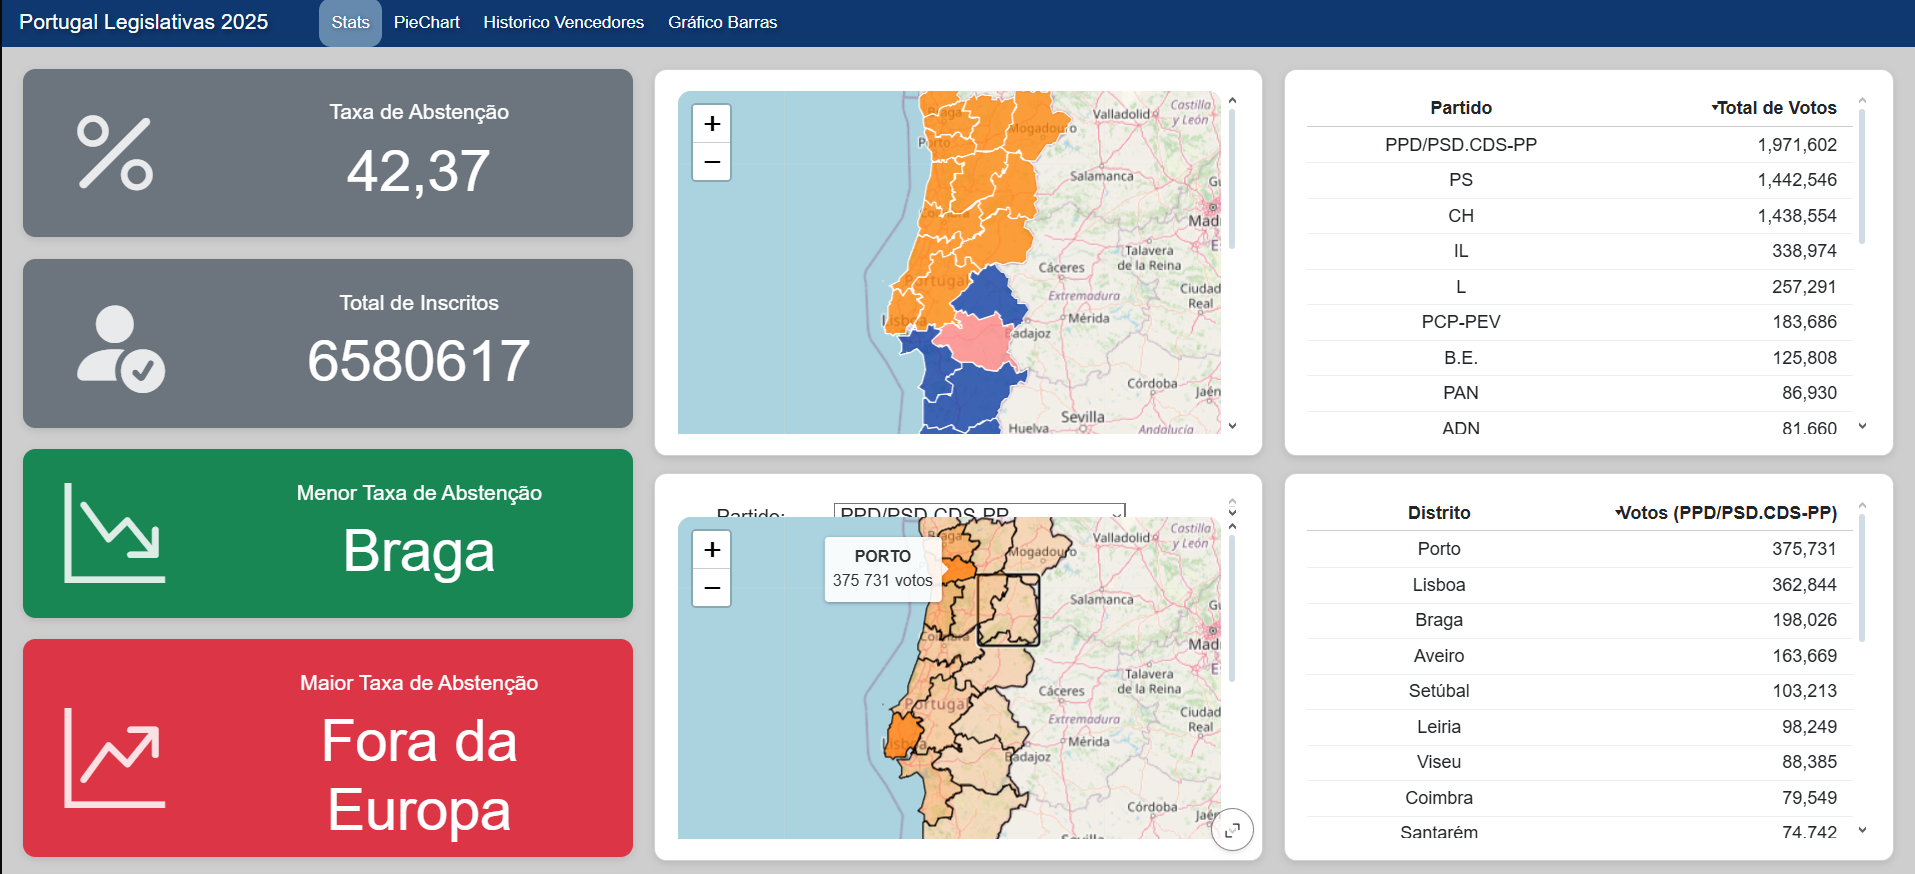
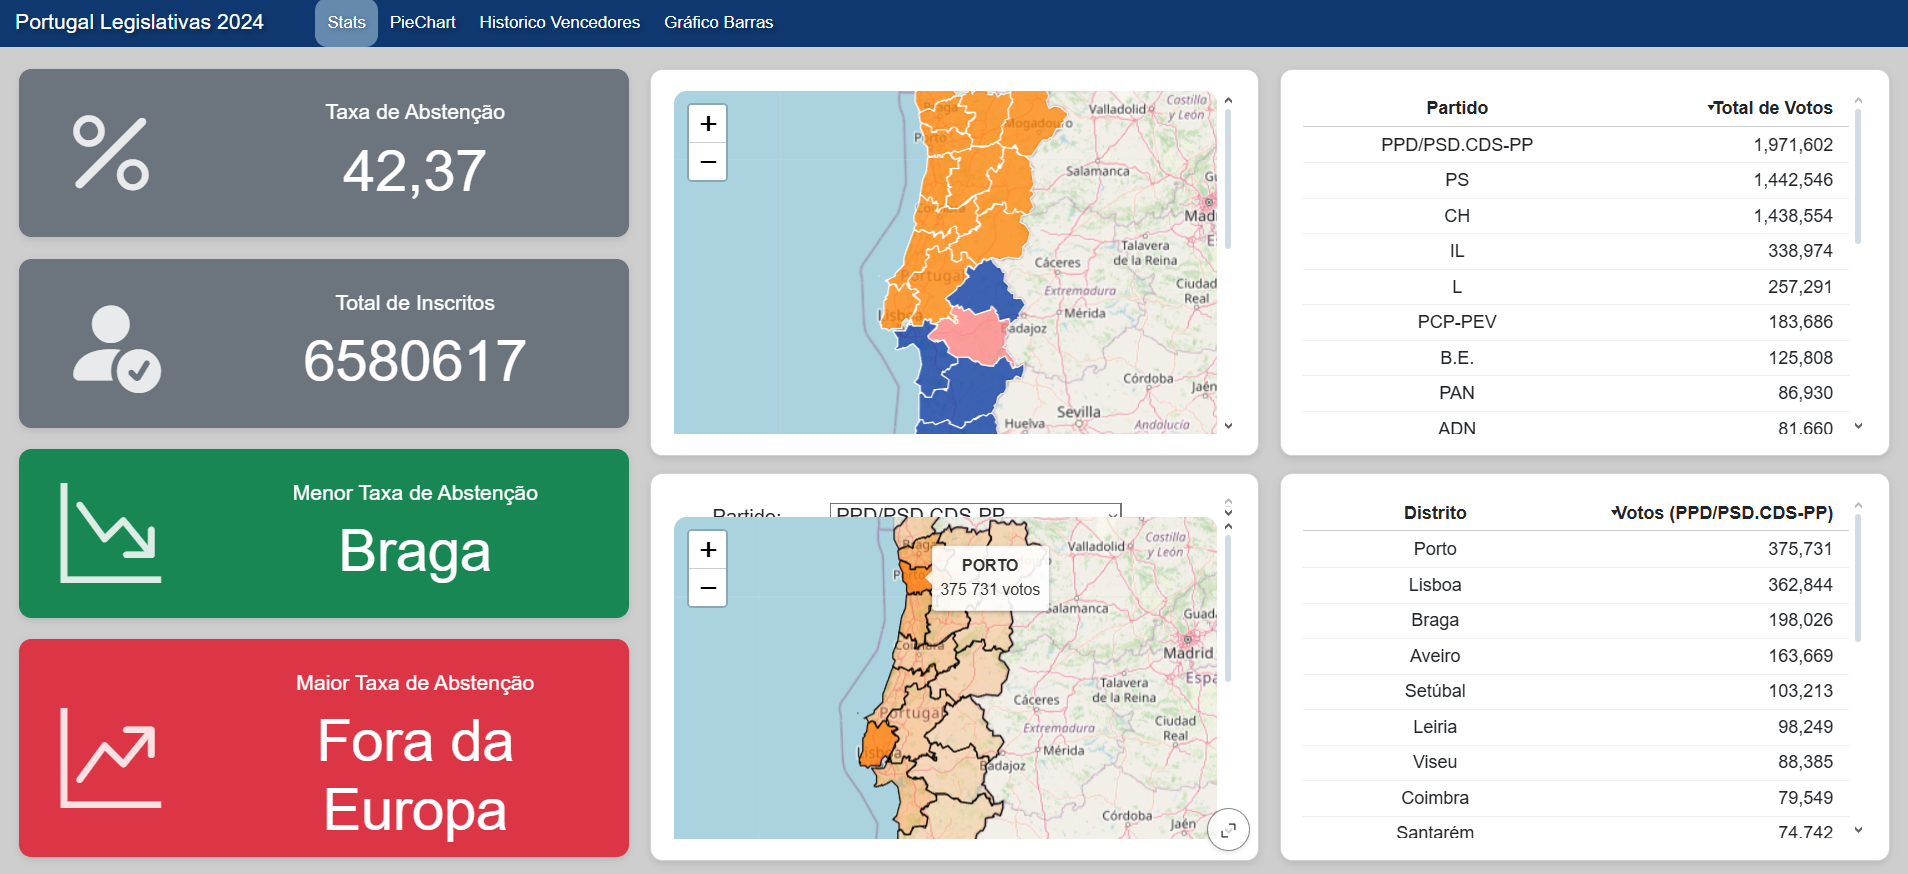
2025->2024

diff --git a/quarto.html b/quarto.html
@@ -7,7 +7,7 @@
 <meta name="viewport" content="width=device-width, initial-scale=1.0, user-scalable=yes">
 
 
-<title>Portugal Legislativas 2025</title>
+<title>Portugal Legislativas 2024</title>
 <style>
 code{white-space: pre-wrap;}
 span.smallcaps{font-variant: small-caps;}
@@ -106,7 +106,7 @@ pre > code.sourceCode > span > a:first-child::before { text-decoration: underlin
 
 
       <div class="navbar-title">
-        <div class="navbar-title-text"><a href="#">Portugal Legislativas 2025</a></div>
+        <div class="navbar-title-text"><a href="#">Portugal Legislativas 2024</a></div>
         
         
       </div>
@@ -208,16 +208,16 @@ grid-auto-rows: minmax(0, 1fr);">
 <div class="card cell html-fill-item html-fill-container bslib-card" data-bslib-card-init="" data-require-bs-caller="card()" data-full-screen="false">
 <div class="card-body html-fill-item html-fill-container">
 <div class="code-copy-outer-scaffold html-fill-item html-fill-container"><div class="sourceCode cell-code hidden html-fill-item html-fill-container" id="cb1" data-startfrom="148" data-source-offset="0"><pre class="sourceCode js code-with-copy"><code class="sourceCode javascript" style="counter-reset: source-line 147;"><span id="cb1-148"><a href="#cb1-148" aria-hidden="true" tabindex="-1"></a>{</span>
-<span id="cb1-149"><a href="#cb1-149" aria-hidden="true" tabindex="-1"></a>  <span class="co">// 1. Carregar Leaflet global</span></span>
+<span id="cb1-149"><a href="#cb1-149" aria-hidden="true" tabindex="-1"></a>  <span class="co">// Carregar Leaflet global</span></span>
 <span id="cb1-150"><a href="#cb1-150" aria-hidden="true" tabindex="-1"></a>  <span class="kw">const</span> leafletCSS <span class="op">=</span> <span class="fu">html</span><span class="vs">`&lt;link rel="stylesheet" href="https://unpkg.com/leaflet@1.9.4/dist/leaflet.css"&gt;`</span><span class="op">;</span></span>
 <span id="cb1-151"><a href="#cb1-151" aria-hidden="true" tabindex="-1"></a>  <span class="kw">const</span> leafletJS <span class="op">=</span> <span class="fu">html</span><span class="vs">`&lt;script src="https://unpkg.com/leaflet@1.9.4/dist/leaflet.js"&gt;&lt;/script&gt;`</span><span class="op">;</span></span>
 <span id="cb1-152"><a href="#cb1-152" aria-hidden="true" tabindex="-1"></a>  <span class="cf">await</span> <span class="bu">Promise</span><span class="op">.</span><span class="fu">all</span>([leafletCSS<span class="op">,</span> leafletJS])<span class="op">;</span></span>
 <span id="cb1-153"><a href="#cb1-153" aria-hidden="true" tabindex="-1"></a></span>
-<span id="cb1-154"><a href="#cb1-154" aria-hidden="true" tabindex="-1"></a>  <span class="co">// 2. Carregar dados</span></span>
+<span id="cb1-154"><a href="#cb1-154" aria-hidden="true" tabindex="-1"></a>  <span class="co">// Carregar dados</span></span>
 <span id="cb1-155"><a href="#cb1-155" aria-hidden="true" tabindex="-1"></a>  <span class="kw">const</span> dadosEleicoes <span class="op">=</span> <span class="cf">await</span> <span class="fu">FileAttachment</span>(<span class="st">"data/legislativas1.json"</span>)<span class="op">.</span><span class="fu">json</span>()<span class="op">;</span></span>
 <span id="cb1-156"><a href="#cb1-156" aria-hidden="true" tabindex="-1"></a>  <span class="kw">const</span> districts <span class="op">=</span> <span class="cf">await</span> <span class="fu">FileAttachment</span>(<span class="st">"data/ContinenteDistritos_geo.geojson"</span>)<span class="op">.</span><span class="fu">json</span>()<span class="op">;</span></span>
 <span id="cb1-157"><a href="#cb1-157" aria-hidden="true" tabindex="-1"></a></span>
-<span id="cb1-158"><a href="#cb1-158" aria-hidden="true" tabindex="-1"></a>  <span class="co">// 3. Funções auxiliares</span></span>
+<span id="cb1-158"><a href="#cb1-158" aria-hidden="true" tabindex="-1"></a>  <span class="co">// Funções auxiliares</span></span>
 <span id="cb1-159"><a href="#cb1-159" aria-hidden="true" tabindex="-1"></a>  <span class="kw">const</span> naoPartidos <span class="op">=</span> [<span class="st">"Votantes"</span><span class="op">,</span><span class="st">"Abstenção"</span><span class="op">,</span><span class="st">"Brancos"</span><span class="op">,</span><span class="st">"Nulos"</span><span class="op">,</span><span class="st">"Votos Val. Exp. (VVE)"</span>]<span class="op">;</span></span>
 <span id="cb1-160"><a href="#cb1-160" aria-hidden="true" tabindex="-1"></a></span>
 <span id="cb1-161"><a href="#cb1-161" aria-hidden="true" tabindex="-1"></a>  <span class="kw">function</span> <span class="fu">normalizar</span>(str) {</span>
@@ -238,7 +238,7 @@ grid-auto-rows: minmax(0, 1fr);">
 <span id="cb1-176"><a href="#cb1-176" aria-hidden="true" tabindex="-1"></a>    <span class="st">"ND"</span><span class="op">:</span> <span class="st">"rgba(6, 32, 90, 1)"</span></span>
 <span id="cb1-177"><a href="#cb1-177" aria-hidden="true" tabindex="-1"></a>  }<span class="op">;</span></span>
 <span id="cb1-178"><a href="#cb1-178" aria-hidden="true" tabindex="-1"></a></span>
-<span id="cb1-179"><a href="#cb1-179" aria-hidden="true" tabindex="-1"></a>  <span class="co">// 4. Calcular vencedor por distrito</span></span>
+<span id="cb1-179"><a href="#cb1-179" aria-hidden="true" tabindex="-1"></a>  <span class="co">// Calcular vencedor por distrito</span></span>
 <span id="cb1-180"><a href="#cb1-180" aria-hidden="true" tabindex="-1"></a>  <span class="kw">const</span> vencedores <span class="op">=</span> {}<span class="op">;</span></span>
 <span id="cb1-181"><a href="#cb1-181" aria-hidden="true" tabindex="-1"></a>  <span class="cf">for</span> (<span class="kw">const</span> [distrito<span class="op">,</span> info] <span class="kw">of</span> <span class="bu">Object</span><span class="op">.</span><span class="fu">entries</span>(dadosEleicoes)) {</span>
 <span id="cb1-182"><a href="#cb1-182" aria-hidden="true" tabindex="-1"></a>    <span class="kw">let</span> maxVotos <span class="op">=</span> <span class="op">-</span><span class="dv">1</span><span class="op">;</span></span>
@@ -256,13 +256,13 @@ grid-auto-rows: minmax(0, 1fr);">
 <span id="cb1-194"><a href="#cb1-194" aria-hidden="true" tabindex="-1"></a>    vencedores[<span class="fu">normalizar</span>(distrito)] <span class="op">=</span> { vencedor<span class="op">,</span> maxVotos }<span class="op">;</span></span>
 <span id="cb1-195"><a href="#cb1-195" aria-hidden="true" tabindex="-1"></a>  }</span>
 <span id="cb1-196"><a href="#cb1-196" aria-hidden="true" tabindex="-1"></a></span>
-<span id="cb1-197"><a href="#cb1-197" aria-hidden="true" tabindex="-1"></a>  <span class="co">// 5. Criar mapa</span></span>
+<span id="cb1-197"><a href="#cb1-197" aria-hidden="true" tabindex="-1"></a>  <span class="co">// Criar mapa</span></span>
 <span id="cb1-198"><a href="#cb1-198" aria-hidden="true" tabindex="-1"></a>  <span class="kw">const</span> div <span class="op">=</span> <span class="fu">html</span><span class="vs">`&lt;div style="height:600px"&gt;&lt;/div&gt;`</span><span class="op">;</span></span>
 <span id="cb1-199"><a href="#cb1-199" aria-hidden="true" tabindex="-1"></a>  <span class="kw">const</span> mapa <span class="op">=</span> L<span class="op">.</span><span class="fu">map</span>(div)<span class="op">.</span><span class="fu">setView</span>([<span class="fl">39.5</span><span class="op">,</span> <span class="op">-</span><span class="dv">8</span>]<span class="op">,</span> <span class="dv">7</span>)<span class="op">;</span></span>
 <span id="cb1-200"><a href="#cb1-200" aria-hidden="true" tabindex="-1"></a></span>
 <span id="cb1-201"><a href="#cb1-201" aria-hidden="true" tabindex="-1"></a>  L<span class="op">.</span><span class="fu">tileLayer</span>(<span class="st">"https://{s}.tile.openstreetmap.org/{z}/{x}/{y}.png"</span>)<span class="op">.</span><span class="fu">addTo</span>(mapa)<span class="op">;</span></span>
 <span id="cb1-202"><a href="#cb1-202" aria-hidden="true" tabindex="-1"></a></span>
-<span id="cb1-203"><a href="#cb1-203" aria-hidden="true" tabindex="-1"></a>  <span class="co">// 6. Pintar distritos</span></span>
+<span id="cb1-203"><a href="#cb1-203" aria-hidden="true" tabindex="-1"></a>  <span class="co">// Pintar distritos</span></span>
 <span id="cb1-204"><a href="#cb1-204" aria-hidden="true" tabindex="-1"></a>  L<span class="op">.</span><span class="fu">geoJSON</span>(districts<span class="op">,</span> {</span>
 <span id="cb1-205"><a href="#cb1-205" aria-hidden="true" tabindex="-1"></a>    <span class="dt">style</span><span class="op">:</span> feature <span class="kw">=&gt;</span> {</span>
 <span id="cb1-206"><a href="#cb1-206" aria-hidden="true" tabindex="-1"></a>      <span class="kw">const</span> nomeDistrito <span class="op">=</span> feature<span class="op">.</span><span class="at">properties</span><span class="op">.</span><span class="at">NAME_1</span> <span class="op">||</span> feature<span class="op">.</span><span class="at">properties</span><span class="op">.</span><span class="at">Distrito</span><span class="op">;</span></span>
@@ -1000,7 +1000,7 @@ grid-auto-rows: minmax(0, 1fr);">
 
 
 <script type="ojs-module-contents">
[2 lines of base64/hex data omitted]
 </script>
 <script type="module">
 if (window.location.protocol === "file:") { alert("The OJS runtime does not work with file:// URLs. Please use a web server to view this document."); }